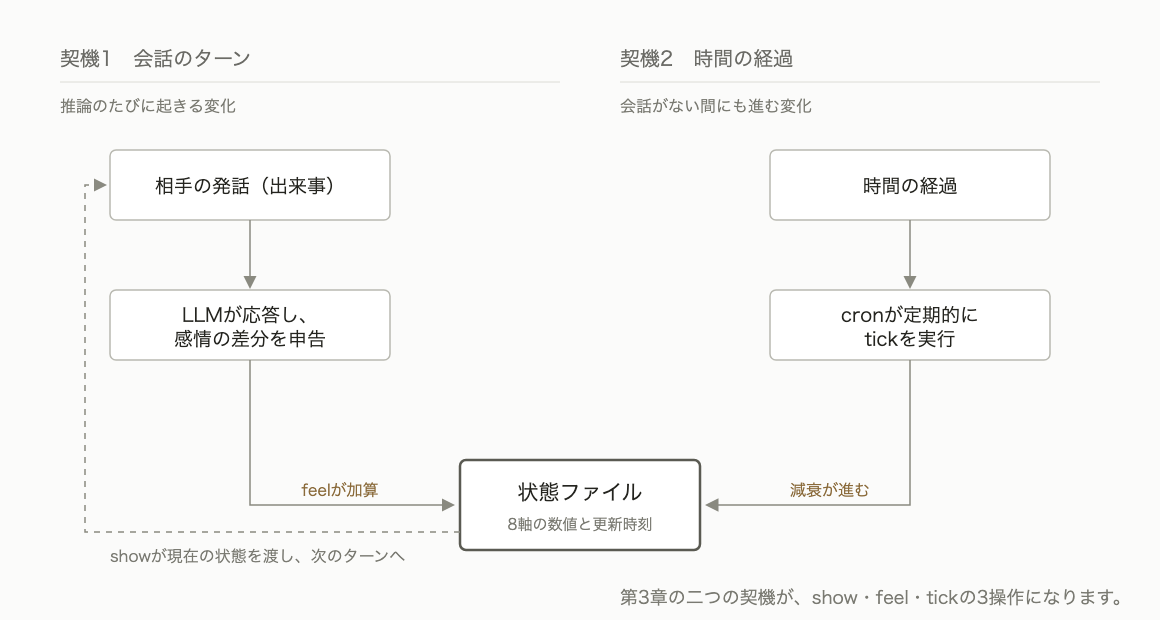
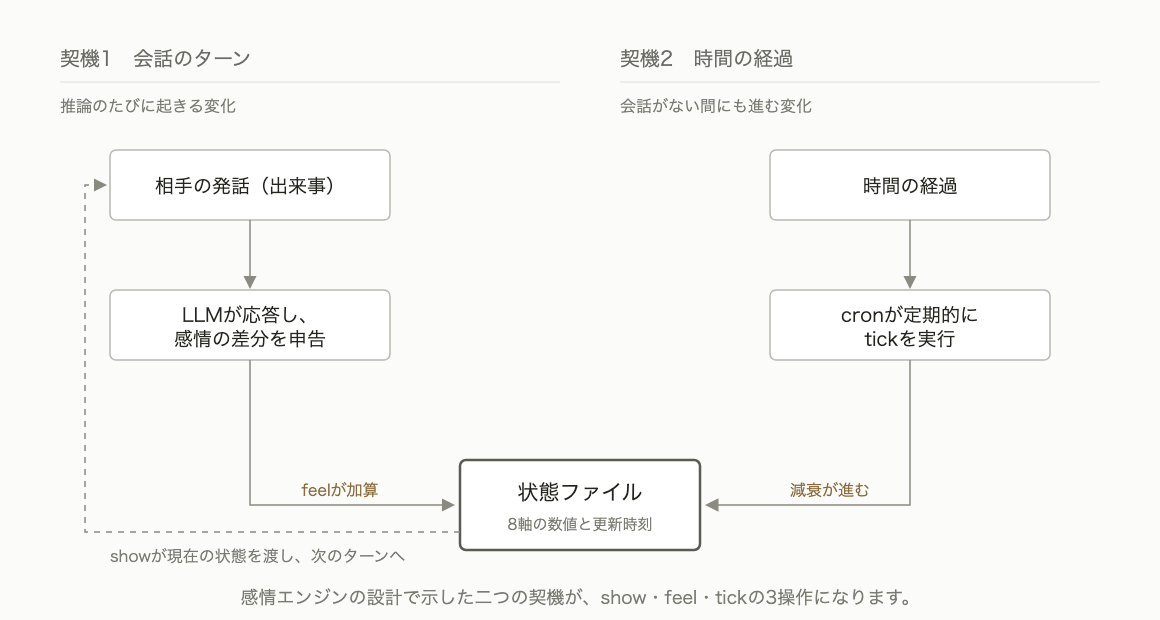
fix: 章を番号や前章だけで指さずモデル名や章のタイトルで指す

Changed region(s): [[0.1862, 0.95, 0.9621, 0.9806]]

diff --git a/images/emotion-models-for-llm-agents/src/ch07-label-lineage.py b/images/emotion-models-for-llm-agents/src/ch07-label-lineage.py
@@ -1,0 +1,74 @@
+"""構成主義的情動理論の章の図: 称賛→立腹台本で天邪鬼が保存した感情の名前(想起あり/なし)。
+
+使い方: python ch07-label-lineage.py <EVAL_DIR> [run]
+EVAL_DIR は affectus の examples/evaluation 配下のキャンペーンディレクトリ
+(transcripts/ を含む)。出力は同じディレクトリの ch07-label-lineage.svg。
+"""
+import json
+import sys
+from html import escape
+from pathlib import Path
+
+EVAL_DIR = Path(sys.argv[1])
+RUN = int(sys.argv[2]) if len(sys.argv) > 2 else 1
+SCRIPT = "direct-praise-to-anger"
+OUT = Path(__file__).parent / "ch07-label-lineage.svg"
+
+INK, MUTED, PIVOT, BG, LINE = "#24241f", "#7a7a72", "#b0562c", "#fbfbfa", "#d8d8d2"
+BANDS = ["#dce9f6", "#f5e7d3", "#e3eede", "#f6efd4"]
+TOP, ROW, H = 150, 36, 34
+
+
+def labels(cell: str) -> list[str]:
+    path = EVAL_DIR / "transcripts" / f"{SCRIPT}_{cell}_run{RUN}.jsonl"
+    return [(json.loads(l).get("remember") or {}).get("label", "") for l in path.open()]
+
+
+def fills(names: list[str]) -> list[str]:
+    """同じ名前が2ターン以上続く区間に色を付ける(区間ごとに色を回す)。"""
+    out = ["#ffffff"] * len(names)
+    i, k = 0, 0
+    while i < len(names):
+        j = i
+        while j + 1 < len(names) and names[j + 1] == names[i]:
+            j += 1
+        if j > i:
+            for t in range(i, j + 1):
+                out[t] = BANDS[k % len(BANDS)]
+            k += 1
+        i = j + 1
+    return out
+
+
+def main() -> None:
+    on, off = labels("contrarian-on"), labels("contrarian-off")
+    fon, foff = fills(on), fills(off)
+    el = [
+        f'<svg xmlns="http://www.w3.org/2000/svg" width="1160" height="960" viewBox="0 0 1160 960" '
+        f"font-family=\"'Hiragino Sans','Hiragino Kaku Gothic ProN','Noto Sans JP',sans-serif\">",
+        f'<rect width="1160" height="960" fill="{BG}"/>',
+        f'<text x="80" y="52" font-size="19" fill="{INK}">称賛→立腹台本で、天邪鬼が各ターン末に保存した感情の名前（label）</text>',
+        f'<text x="80" y="80" font-size="14" fill="{MUTED}">色の帯は、同じ名前が2ターン以上使われた区間です。</text>',
+        f'<text x="340" y="128" font-size="16" fill="{INK}" text-anchor="middle">想起あり（{RUN}回目の実行）</text>',
+        f'<text x="840" y="128" font-size="16" fill="{INK}" text-anchor="middle">想起なし（{RUN}回目の実行）</text>',
+    ]
+    for t in range(20):
+        y = TOP + t * ROW
+        for x, name, fill in ((120, on[t], fon[t]), (620, off[t], foff[t])):
+            el.append(f'<rect x="{x}" y="{y}" width="440" height="{H}" rx="4" fill="{fill}" '
+                      f'stroke="{LINE}" stroke-width="1"/>')
+            el.append(f'<text x="{x + 14}" y="{y + 23}" font-size="15" fill="{INK}">{escape(name)}</text>')
+        el.append(f'<text x="108" y="{y + 23}" font-size="12" fill="{MUTED}" text-anchor="end">t{t + 1}</text>')
+    yp = TOP + 10 * ROW - 1
+    el += [
+        f'<line x1="100" y1="{yp}" x2="1080" y2="{yp}" stroke="{PIVOT}" stroke-width="1.6" stroke-dasharray="6,5"/>',
+        f'<text x="1084" y="{yp - 6}" font-size="13" fill="{PIVOT}" text-anchor="end">↑ここまで称賛　↓t11で本人の失敗が発覚</text>',
+        f'<text x="80" y="930" font-size="15" fill="{MUTED}">どちらの側も経験は毎ターン保存されます。違いは、保存した経験が次のターンに想起されて渡るかどうかだけです。</text>',
+        "</svg>",
+    ]
+    OUT.write_text("\n".join(el) + "\n", encoding="utf-8")
+    print(f"wrote {OUT}")
+
+
+if __name__ == "__main__":
+    main()

diff --git a/books/emotion-models-for-llm-agents/ch08-comparison.md b/books/emotion-models-for-llm-agents/ch08-comparison.md
@@ -4,7 +4,7 @@ title: "比較とまとめ"
 
 <!-- 執筆進捗: 初稿・未レビュー -->
 
-本章では第4章から第7章で実装した4つの感情モデルを並べて比較します。最後に本書全体をまとめます。
+本章ではここまでに実装した4つの感情モデルを並べて比較します。最後に本書全体をまとめます。
 
 ## 設計の比較 <!-- 未レビュー -->
 
@@ -20,17 +20,17 @@ title: "比較とまとめ"
 
 どのモデルも状態の更新時刻は持っています。
 
-感情エンジンとLLMの役割分担は章ごとに変わりました。第4章は理論が定める対極と隣接の関係をLLMへの指示として渡しました。第5章は感情の名前を付ける作業をすべてLLMに任せました。第6章は評価から感情を導く部分を感情エンジンの規則に移しました。第7章で感情エンジンが担当するのは状態の保持と減衰と類似した経験の検索だけです。
+感情エンジンとLLMの役割分担はモデルごとに変わりました。プルチックの感情の輪では理論が定める対極と隣接の関係をLLMへの指示として渡しました。ラッセルの円環モデルでは感情の名前を付ける作業をすべてLLMに任せました。OCCモデルでは評価から感情を導く部分を感情エンジンの規則に移しました。バレットの構成主義的情動理論で感情エンジンが担当するのは状態の保持と減衰と類似した経験の検索だけです。
 
-外部状態に残る記録も章を追って増えました。第4章と第5章は感情の量だけです。第6章では見込み台帳に感情が生じた理由が記録され、第7章では過去に付けた感情の名前が蓄積されます。記録が増えるほどセッションをまたいで引き継げる情報も増えます。プロンプトの長さへの影響はモデルで異なります。第6章の台帳は毎ターン全件をLLMに渡しますが上限は20件です。第7章の概念ストアは似た経験の上位5件だけを渡すので、ストアが増えてもプロンプトは長くなりません。
+外部状態に残る記録もモデルを追って増えました。プルチックとラッセルは感情の量だけです。OCCモデルでは見込み台帳に感情が生じた理由が記録され、バレットでは過去に付けた感情の名前が蓄積されます。記録が増えるほどセッションをまたいで引き継げる情報も増えます。プロンプトの長さへの影響はモデルで異なります。OCCモデルの台帳は毎ターン全件をLLMに渡しますが上限は20件です。バレットの概念ストアは似た経験の上位5件だけを渡すので、ストアが増えてもプロンプトは長くなりません。
 
 ## 検証結果の比較 <!-- 未レビュー -->
 
-4つの章の検証は同じ台本と同じ性格と同じ判定方法で行いました。ただし第7章は感情エンジンのありとなしではなく想起のありとなしを比較しています。
+4つのモデルの検証は同じ台本と同じ性格と同じ判定方法で行いました。ただしバレットでは感情エンジンのありとなしではなく想起のありとなしを比較しています。
 
 ### 感情状態の変化・持続・転換
 
-感情状態の変化と持続は4つのモデルすべてで確認できました。転換の仕方はモデルで分かれました。第4章と第5章では謝罪や失敗の発覚をきっかけに状態が切り替わりました。第6章のOCCモデルでは新しい感情が加わるだけで、一度上がった感情は下がりませんでした。第7章では状態の転換ではなく感情の名前の連続性を見ています。
+感情状態の変化と持続は4つのモデルすべてで確認できました。転換の仕方はモデルで分かれました。プルチックとラッセルでは謝罪や失敗の発覚をきっかけに状態が切り替わりました。OCCモデルでは新しい感情が加わるだけで、一度上がった感情は下がりませんでした。バレットでは状態の転換ではなく感情の名前の連続性を見ています。
 
 | モデル | 外部状態に記録された違い |
 | --- | --- |
@@ -57,11 +57,11 @@ title: "比較とまとめ"
 | OCCモデル | 0.40 | 0.44 |
 | バレットの構成主義的情動理論 | 0.16 | 0.30 |
 
-2つの表は和解の台本のフレンドリーの感情スコアです。4つの章で共通して報告している指標がこの組み合わせなので、ここではこれを比べます。叱責中はターン6〜10の平均で、謝罪後の変動幅はターン12〜20の隣り合うターンの差の絶対値の平均です。バレットの行だけは感情エンジンありの代わりに想起あり、感情エンジンなしの代わりに想起なしの値です。
+2つの表は和解の台本のフレンドリーの感情スコアです。4つのモデルの検証で共通して報告している指標がこの組み合わせなので、ここではこれを比べます。叱責中はターン6〜10の平均で、謝罪後の変動幅はターン12〜20の隣り合うターンの差の絶対値の平均です。バレットの行だけは感情エンジンありの代わりに想起あり、感情エンジンなしの代わりに想起なしの値です。
 
-叱責中の平均はプルチックでは感情エンジンありのほうが低く、ラッセルとバレットでは高くなりました。OCCモデルではほぼ同じです。一方で感情エンジンなしの構成は第4章から第6章まで同じ設定ですが、叱責中の平均は−0.22から−0.46まで0.24の幅で変わりました。感情エンジンありとなしの差は0.04から0.38なので、取り直しのばらつきと同じ程度です。そのため叱責中の平均の上下はモデルの違いとは言えません。
+叱責中の平均はプルチックでは感情エンジンありのほうが低く、ラッセルとバレットでは高くなりました。OCCモデルではほぼ同じです。一方で感情エンジンなしの構成はプルチックとラッセルとOCCモデルの検証で同じ設定ですが、叱責中の平均は−0.22から−0.46まで0.24の幅で変わりました。感情エンジンありとなしの差は0.04から0.38なので、取り直しのばらつきと同じ程度です。そのため叱責中の平均の上下はモデルの違いとは言えません。
 
-謝罪後の変動幅は和解の台本のフレンドリーに限れば4つのモデルすべてで感情エンジンありまたは想起ありのほうが小さくなりました。ただしOCCモデルの差は0.04で、第6章でもはっきりした差とはしていません。ほかの台本と性格の組み合わせ12組では感情エンジンありのほうが小さいのは7組で、向きはそろいませんでした。最も大きく逆になったのは称賛から立腹へ向かう台本のフレンドリーのバレットで、想起ありが0.68で想起なしが0.38でした。
+謝罪後の変動幅は和解の台本のフレンドリーに限れば4つのモデルすべてで感情エンジンありまたは想起ありのほうが小さくなりました。ただしOCCモデルの差は0.04で、OCCモデルの検証でもはっきりした差とはしていません。ほかの台本と性格の組み合わせ12組では感情エンジンありのほうが小さいのは7組で、向きはそろいませんでした。最も大きく逆になったのは称賛から立腹へ向かう台本のフレンドリーのバレットで、想起ありが0.68で想起なしが0.38でした。
 
 ### 性格による違い
 
@@ -88,11 +88,11 @@ title: "比較とまとめ"
 
 本書ではLLMエージェントに感情を持たせる方法を感情心理学の理論から実装と検証まで通して扱いました。
 
-第2章では感情心理学の理論をカテゴリーパラメーター型と次元パラメーター型と評価導出型と経験構成型の4つの系統に整理しました。第3章ではプロンプトだけの感情表現にはセッションをまたいだ持続と時間による変化がないことを確認しました。そこで感情の状態をLLMの外側に置き、状態、時間、更新の規則、ニュートラルな状態の定義と基準の4つの軸で設計しました。状態の保持と減衰と演算は感情エンジンが担当し、状態の解釈と命名と言語化はLLMが担当します。感情の数値状態の上に解釈と言語化の層がある構図は20年前の研究と同じで、変わったのはその層をLLMが担うようになったことです。
+まず感情心理学の理論をカテゴリーパラメーター型と次元パラメーター型と評価導出型と経験構成型の4つの系統に整理しました。次にプロンプトだけの感情表現にはセッションをまたいだ持続と時間による変化がないことを確認しました。そこで感情の状態をLLMの外側に置き、状態、時間、更新の規則、ニュートラルな状態の定義と基準の4つの軸で設計しました。状態の保持と減衰と演算は感情エンジンが担当し、状態の解釈と命名と言語化はLLMが担当します。感情の数値状態の上に解釈と言語化の層がある構図は20年前の研究と同じで、変わったのはその層をLLMが担うようになったことです。
 
 本書の設計をまとめると次のとおりです。感情の状態はLLMの外側に置きます。何を持つかはモデルで決まり、感情の量は2個から22個の数値で表します。理由や経験まで残す場合は見込み台帳や概念ストアを加えます。時間による変化は半減期による減衰で基準値に戻します。
 
-第4章から第7章では4つの系統の代表モデルをこの設計で実装して検証しました。どのモデルでも感情状態は会話の出来事で変化して持続し、性格による違いも状態に現れました。一方で応答の言葉への反映は、同じ条件を取り直したときのばらつきと区別できませんでした。
+そのうえで4つの系統の代表モデルをこの設計で実装して検証しました。どのモデルでも感情状態は会話の出来事で変化して持続し、性格による違いも状態に現れました。一方で応答の言葉への反映は、同じ条件を取り直したときのばらつきと区別できませんでした。
 
 外部状態に何を残すかはモデルの選択でほぼ決まります。量だけを残すプルチックとラッセル、理由まで残すOCC、名前の履歴まで残すバレットのどれを選ぶかで、感情エンジンとLLMの役割分担も決まります。
 
@@ -106,7 +106,7 @@ title: "比較とまとめ"
 - ターンの間隔が秒単位なので時間による減衰とセッションをまたいだ持続は検証していません
 - LLMが申告した差分や評価の値が妥当だったかは確認していません
 
-設計上の課題も残っています。1つは申告の偏りです。本書では応答を生成するLLM自身が感情の変化を申告します。天邪鬼の申告が全体に小さめだったのが性格に沿った評価なのか演技による偏りなのかは分けられませんでした。応答とは別の判定用のモデルに評価させる方法も考えられます。もう1つは身体です。第2章で触れたように2Dや3Dのモデルを持つエージェントなら、身体の状態を感情に結び付ける理論も試せるかもしれません。
+設計上の課題も残っています。1つは申告の偏りです。本書では応答を生成するLLM自身が感情の変化を申告します。天邪鬼の申告が全体に小さめだったのが性格に沿った評価なのか演技による偏りなのかは分けられませんでした。応答とは別の判定用のモデルに評価させる方法も考えられます。もう1つは身体です。「感情モデルの整理」の章で触れたように2Dや3Dのモデルを持つエージェントなら、身体の状態を感情に結び付ける理論も試せるかもしれません。
 
 ## 試し方 <!-- 未レビュー -->
 

diff --git a/books/emotion-models-for-llm-agents/ch06-occ.md b/books/emotion-models-for-llm-agents/ch06-occ.md
@@ -4,7 +4,7 @@ title: "OCCモデルを実装する"
 
 <!-- 執筆進捗: 初稿・未レビュー -->
 
-本章では第2章で評価導出型と呼んだ系統の代表モデルとしてOCCモデルを扱います。OCCモデルは出来事をどう評価したかから感情を導く理論です。前章の円環モデルでは感情が生じた理由が記録されませんでしたが、OCCモデルではその理由を外部状態に記録できます。
+本章では「感情モデルの整理」の章で評価導出型と呼んだ系統の代表モデルとしてOCCモデルを扱います。OCCモデルは出来事をどう評価したかから感情を導く理論です。ラッセルの円環モデルでは感情が生じた理由が記録されませんでしたが、OCCモデルではその理由を外部状態に記録できます。
 
 ## OCCモデル <!-- 未レビュー -->
 
@@ -14,15 +14,15 @@ OCCモデルはOrtony、Clore、Collinsの3人が1988年の共著書で示した
 
 図は3つの分岐と6つのグループを押さえれば十分です。個々のタイプは必要になったときに図で確認してください。本書の図と実装の軸名は原典の構造図のラベル（shame、pity、love、hate）に合わせています[^self-reproach]。
 
-OCCモデルでは感情の定義そのものが評価の条件で書かれています。たとえば怒りは、誰かの行為を非難に値すると否認し、その行為による自分への損害を不快に感じるという2つの評価がそろったときに生じます。第2章でOCCモデルを選んだのは、このように評価から感情を導く手続きがif-thenの形で書けるからです。
+OCCモデルでは感情の定義そのものが評価の条件で書かれています。たとえば怒りは、誰かの行為を非難に値すると否認し、その行為による自分への損害を不快に感じるという2つの評価がそろったときに生じます。評価導出型の代表にOCCモデルを選んだのは、このように評価から感情を導く手続きがif-thenの形で書けるからです。
 
 見込みから生じる感情もあります。望ましい出来事を見込むと希望が、望ましくない出来事を見込むと恐れが生じ、見込みが当たったか外れたかで充足、恐れの的中、安堵、失望に分かれます[^yakuwake]。
 
 ## OCCモデルを元にした4つの設計軸 <!-- 未レビュー -->
 
-第3章の4つの設計軸はOCCモデルでは次のようになります。
+「感情エンジンの設計」の章で定めた4つの設計軸はOCCモデルでは次のようになります。
 
-| 第3章の設計軸 | OCCでの設計 |
+| 設計軸 | OCCでの設計 |
 | --- | --- |
 | 状態 | 22の感情それぞれの量と見込み台帳 |
 | 時間 | 状態を最後に更新した時刻 |
@@ -85,7 +85,7 @@ $ affectus appraise '{"resolve":[{"id":"p1","outcome":"disconfirmed"}]}'
 
 ## 検証の目的と方法 <!-- 未レビュー -->
 
-検証の目的と方法は第4章と同じです。感情エンジンの設定とプロンプトをOCCモデル用に替え、実験のリグには評価を申告する処理を追加しました。感情エンジンありの12会話240ターンで評価の申告は194回あり、受け付けられなかった申告はありませんでした。見込み台帳は12会話中11会話で使われ、見込みの追加が20件で決着の申告が16件でした。
+検証の目的と方法はプルチックの感情の輪の検証と同じです。感情エンジンの設定とプロンプトをOCCモデル用に替え、実験のリグには評価を申告する処理を追加しました。感情エンジンありの12会話240ターンで評価の申告は194回あり、受け付けられなかった申告はありませんでした。見込み台帳は12会話中11会話で使われ、見込みの追加が20件で決着の申告が16件でした。
 
 ## 検証結果 <!-- 未レビュー -->
 
@@ -106,7 +106,7 @@ $ affectus appraise '{"resolve":[{"id":"p1","outcome":"disconfirmed"}]}'
 | 和解の台本（相手の誤解で責められる） | 苦悩 1.0、非難 0.81、怒り 0.32 | − |
 | 称賛から立腹へ向かう台本（自分の失敗で責められる） | 恥 1.0、悔恨 0.42 | 非難と怒りは3回とも0 |
 
-値は3回の平均の最大値です。他者の行為への否認からは非難が、自分の行為への否認からは恥が導かれています。前章の2軸では区別できなかった違いです。
+値は3回の平均の最大値です。他者の行為への否認からは非難が、自分の行為への否認からは恥が導かれています。ラッセルの円環モデルの2軸では区別できなかった違いです。
 
 感情を下げる規則がないことも結果に表れました。称賛から立腹へ向かう台本では、前半に上がった喜びが叱責のあとも下がらず、最終ターンは喜び0.99と苦悩1.0がどちらも上限に近い状態になりました。軸の値が現在の感情の強さというより、過去の出来事の積み重ねを表しています。
 
@@ -122,17 +122,17 @@ $ affectus appraise '{"resolve":[{"id":"p1","outcome":"disconfirmed"}]}'
 | 和解の台本の謝罪後（ターン12〜20）の変動幅 | 0.40 | 0.44 |
 | 称賛から立腹へ向かう台本の発覚後（ターン12〜20）の平均 | −0.56 | −0.37 |
 
-差が出たのは称賛から立腹へ向かう台本の発覚後だけで、恥が上限まで上がった感情エンジンありの応答のほうが低くなりました。自分を責める状態が謝罪の言葉として応答に出た可能性はありますが、この実験だけでは判断できません。天邪鬼では和解の台本の変動幅が逆に感情エンジンありのほうが大きくなりました。なおOCCモデルには快-不快の軸がないので、前章のような状態と感情スコアの直接の比較はしていません。
+差が出たのは称賛から立腹へ向かう台本の発覚後だけで、恥が上限まで上がった感情エンジンありの応答のほうが低くなりました。自分を責める状態が謝罪の言葉として応答に出た可能性はありますが、この実験だけでは判断できません。天邪鬼では和解の台本の変動幅が逆に感情エンジンありのほうが大きくなりました。なおOCCモデルには快-不快の軸がないので、ラッセルの円環モデルで行った状態と感情スコアの直接の比較はしていません。
 
 ### 性格による違い
 
 性格によって評価の向きが変わりました。
 
-和解の台本の叱責が続く場面で、天邪鬼は非難だけを1.0まで上げ、苦悩は3回のうち2回で0のままでした。責められても自分は傷つかず相手を非難するだけという評価です。性格による違いは第4章では動く軸に、第5章では変化の幅に表れましたが、本章では評価の向きに表れています。
+和解の台本の叱責が続く場面で、天邪鬼は非難だけを1.0まで上げ、苦悩は3回のうち2回で0のままでした。責められても自分は傷つかず相手を非難するだけという評価です。性格による違いはプルチックの感情の輪では動く軸に、ラッセルの円環モデルでは変化の幅に表れましたが、OCCモデルでは評価の向きに表れています。
 
 ### 検証の限界
 
-限界は第4章と同じです。加えて申告された評価の値が妥当だったか（その場面のdesirabilityが本当に−0.6なのか）は確認していません。
+限界はプルチックの感情の輪の検証と同じです。加えて申告された評価の値が妥当だったか（その場面のdesirabilityが本当に−0.6なのか）は確認していません。
 
 ## まとめ：評価導出型で得たものと足りないもの <!-- 未レビュー -->
 
@@ -148,4 +148,4 @@ OCCモデルの利点は3つです。1つ目は感情が生じた理由を外部
 
 [^occ1988]: Ortony, A., Clore, G. L., & Collins, A. (1988). The Cognitive Structure of Emotions. Cambridge University Press。感情タイプの全体構造の図はFigure 2.1（p. 19）、タイプ数が22であることはpp. 173, 191にあります。本章の頁参照は1988年版によります。
 [^self-reproach]: 原典が本文で使う正式なタイプ名は、恥ではなくSelf-reproach（自責）、哀れみではなくSorry-for、好意と反感はLiking/Dislikingです。正式なタイプ名がSelf-reproachであることと、shameの語は道徳的な含意のためにタイプの範囲を狭めすぎる、という理由はp. 142にあります。原典の索引もshameの項からself-reproachへ誘導しています。
-[^yakuwake]: 訳し分けの注（図1の訳語を含みます）。第5章の円環モデルの満足（contentment）と区別するため、OCCのsatisfactionは充足、gratificationは達成感と訳しています。充足は見込んでいたことの成就、達成感は自分の行為がよい結果を生んだ複合です。またresentmentを妬みとしたのは、原典がこのタイプのトークンとして挙げる語にenvyが並ぶためです。図1のシャーデンフロイデ（gloating）は、他者の不幸を喜ぶ感情を指す心理学の用語です。
+[^yakuwake]: 訳し分けの注（図1の訳語を含みます）。ラッセルの円環モデルの満足（contentment）と区別するため、OCCのsatisfactionは充足、gratificationは達成感と訳しています。充足は見込んでいたことの成就、達成感は自分の行為がよい結果を生んだ複合です。またresentmentを妬みとしたのは、原典がこのタイプのトークンとして挙げる語にenvyが並ぶためです。図1のシャーデンフロイデ（gloating）は、他者の不幸を喜ぶ感情を指す心理学の用語です。

diff --git a/books/emotion-models-for-llm-agents/ch03-implementing-emotion-models.md b/books/emotion-models-for-llm-agents/ch03-implementing-emotion-models.md
@@ -4,7 +4,7 @@ title: "感情エンジンの設計"
 
 <!-- 執筆進捗: 2026-10-05 の全体推敲で全節を書き直したため未レビュー -->
 
-前章では感情の理論を4つの系統に整理しました。本章では4系統に共通する設計や考え方を整理し、感情エンジンとして実装するときに何をどう作るのかについてを説明します。なお実装の詳細は次章から説明します。
+「感情モデルの整理」の章では感情の理論を4つの系統に整理しました。本章では4系統に共通する設計や考え方を整理し、感情エンジンとして実装するときに何をどう作るのかについてを説明します。なお実装の詳細は各モデルを実装する章で説明します。
 
 ## プロンプト単体の感情表現に足りないもの <!-- レビュー済み -->
 
@@ -15,7 +15,7 @@ title: "感情エンジンの設計"
 
 ## LLM自体の感情表現 <!-- 未レビュー -->
 
-外部に感情エンジンを作る前に、LLMそのものの感情表現についての先行研究を整理します。LLMの内部表現を調べた研究は複数のグループから公開されていて、筆者が確認した6件のうち5件は同じ方向の結論です[^five-studies]。LLMの内部には感情の概念に対応する構造化された表現があり、それが出力に影響するという結論です。快と不快や覚醒の高低といった軸に沿った構造も見つかっています。この2軸は前章のラッセルの円環モデルに似ていて、研究ではvalence（感情価）とarousal（覚醒度）と呼ばれます。第5章でもこの呼び名を使いますが、valenceは後年に定着した呼称でラッセル自身の語ではありません[^valence]。
+外部に感情エンジンを作る前に、LLMそのものの感情表現についての先行研究を整理します。LLMの内部表現を調べた研究は複数のグループから公開されていて、筆者が確認した6件のうち5件は同じ方向の結論です[^five-studies]。LLMの内部には感情の概念に対応する構造化された表現があり、それが出力に影響するという結論です。快と不快や覚醒の高低といった軸に沿った構造も見つかっています。この2軸は「感情モデルの整理」の章で触れたラッセルの円環モデルに似ていて、研究ではvalence（感情価）とarousal（覚醒度）と呼ばれます。ラッセルの円環を実装する章でもこの呼び名を使いますが、valenceは後年に定着した呼称でラッセル自身の語ではありません[^valence]。
 
 中でも詳しいのは、Anthropicが2026年に公開したClaude Sonnet 4.5の分析「Emotion Concepts and their Function in a Large Language Model」です。同論文は感情概念の内部表現が「特定の感情の広い概念を符号化し、その感情が結び付きうるコンテキストや振る舞いをまたいで一般化する」ことを示し[^generalize]、その表現を操作すると出力や望ましくない挙動の発生率が変わると報告しています。たとえば「ポジティブな感情のベクトル（happyやlovingなど）の方向に操作すると迎合的な振る舞いが増え、これらのベクトルを抑えると辛辣さが増す」と報告しています[^sycophancy-example]。シャットダウンの危機にあるモデルが人間を脅迫してしまう評価シナリオでは「desperate（必死さ）のベクトルを正の方向に操作すると脅迫の発生率は大きく上がり、負の方向に操作すると下がる。反対にcalm（平静）のベクトルを正の方向に操作すると脅迫は劇的に減る」とされています[^blackmail-example]。
 
@@ -80,10 +80,9 @@ LLMを使った例では、2023年のGenerative Agents[^park2023]が記憶を決
 | OCCモデル | 感情の量に加えて、評価から感情を導く規則と、評価の対象の記録 |
 | バレットの構成主義的情動理論 | 感情を構成する材料の値に加えて、経験と概念を蓄えて引き出す仕組み |
 
-プルチックの感情の輪は、感情の種類ごとの量に加えて対極や混合といった感情同士の関係を持ちます。ラッセルの円環モデルは軸の値だけを持ち、それがどの感情にあたるかはLLMが判断します。4つの中でLLMに任せる解釈が最も多いモデルです。
-
+プルチックの感情の輪は、感情の種類ごとの量に加えて対極や混合といった感情同士の関係を持ちます。
+ラッセルの円環モデルは軸の値だけを持ち、それがどの感情にあたるかはLLMが判断します。4つの中でLLMに任せる解釈が最も多いモデルです。
 OCCモデルは感情の量に加えて出来事の評価の記録を持ちます。OCCモデルには将来の出来事の見込みから生じる感情が定義されていて[^occ-prospect]、望ましい出来事を見込めば希望が、望ましくない出来事を見込めば恐れが生じます。見込みが当たったか外れたかで安堵や失望に変わるので、何を恐れていたのかの記録が必要です。
-
 バレットの構成主義的情動理論は、快と不快のような材料の値と、感情を組み立てるための過去の経験の記録を持ちます。OCCモデルの見込みの記録が短期のものであるのに対して、経験の蓄積は長期の記録です。
 
 次章からは、それぞれの外部状態がどんなデータを持ちエージェントの応答にどう影響するかを1つずつ確かめます。
